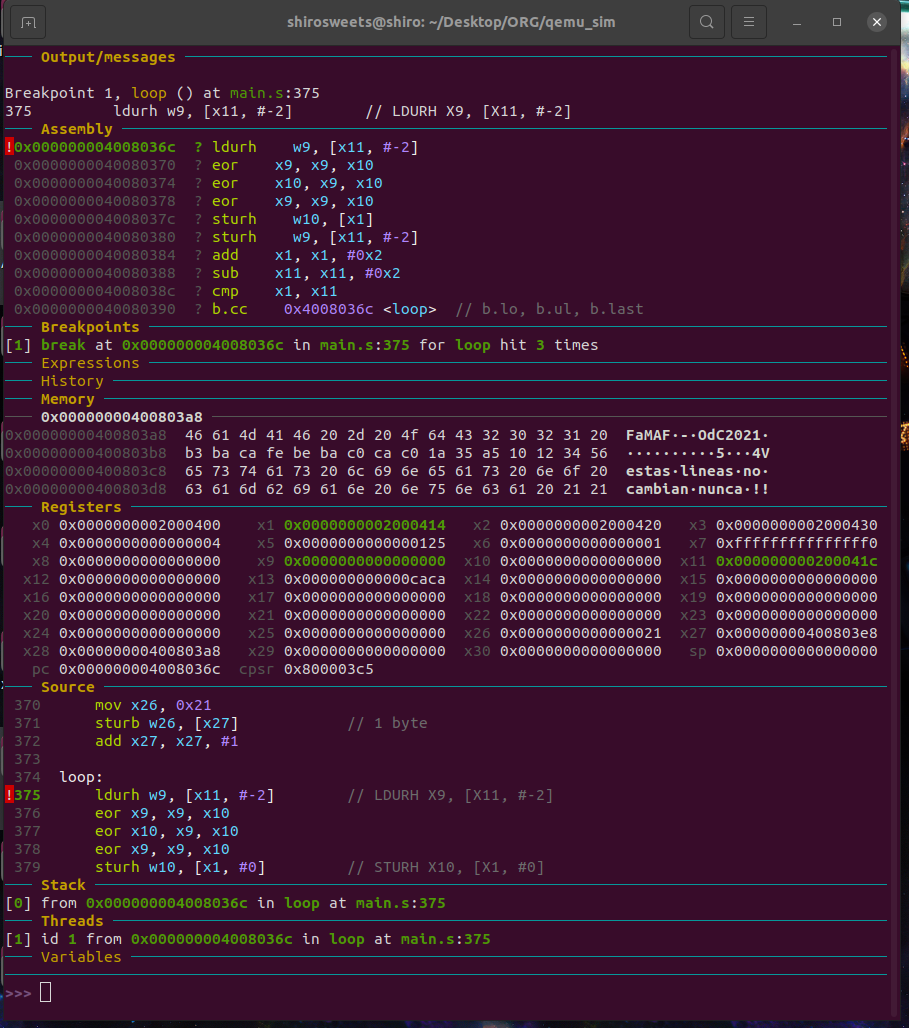
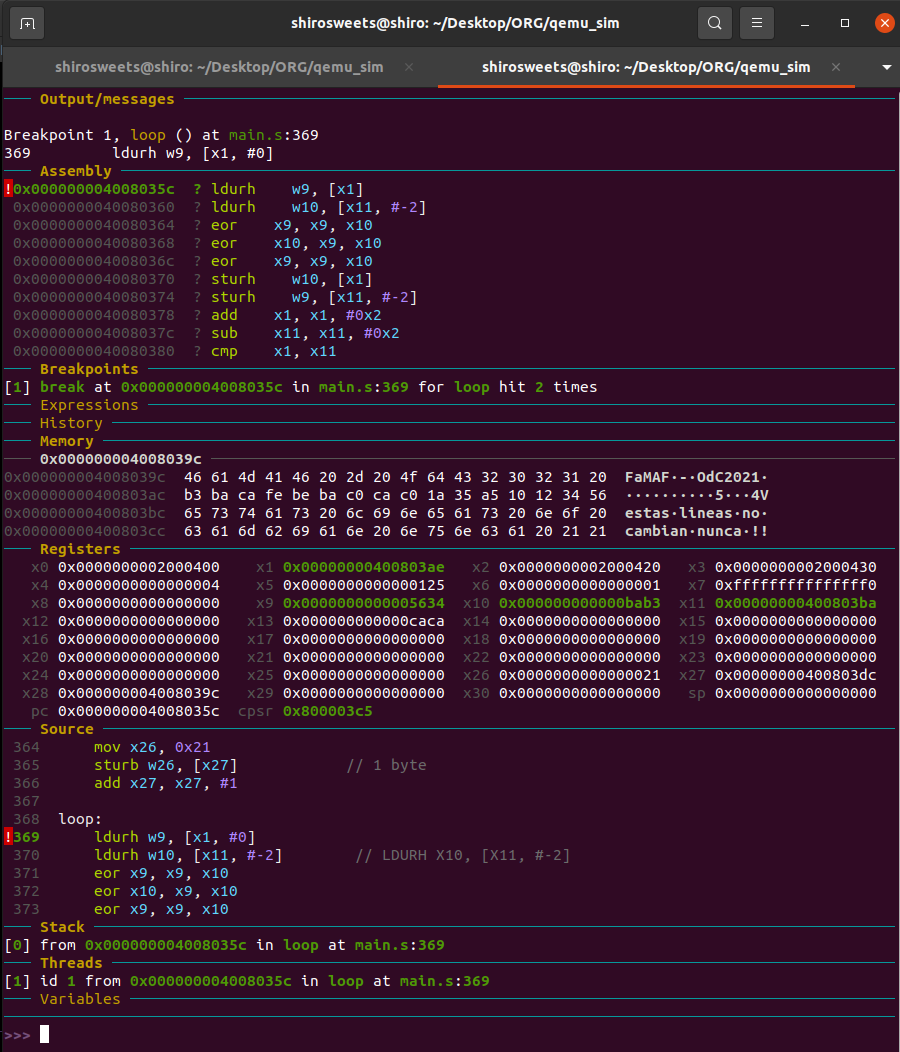
Arreglo segundo load e iterar sobre la memoria observada

Changed region(s): [[0.0, 0.0, 1.0, 1.0], [0.6844, 0.2802, 0.7156, 0.3113], [0.5911, 0.8093, 0.6222, 0.8405]]

diff --git a/README.md b/README.md
@@ -64,7 +64,7 @@ En una terminal:
 > `qemu-system-aarch64 -s -S -machine virt -cpu cortex-a53 -machine type=virt -nographic -smp 1 -m 64 -kernel kernel.img`
 
 En otra terminal, en el mismo path:
-> `gdb-multiarch -ex "set architecture aarch64" \-ex "target remote localhost:1234" \-ex "add-symbol-file main.o 0x0000000040080000" \-ex "dashboard registers -style list 'x0 x1 x2 x3 x4 x5 x6 x7 x8 x9 x10 x11 x12 x13 x14 x15 x16 x17 x18 x19 x20 x21 x22 x23 x24 x25 x26 x27 x28 x29 x30 sp pc cpsr'" \-ex  "stepi 6" \-ex "dashboard memory watch 0x00000000400803a8 64"`
+> `gdb-multiarch -ex "set architecture aarch64" \-ex "target remote localhost:1234" \-ex "add-symbol-file main.o 0x0000000040080000" \-ex "dashboard registers -style list 'x0 x1 x2 x3 x4 x5 x6 x7 x8 x9 x10 x11 x12 x13 x14 x15 x16 x17 x18 x19 x20 x21 x22 x23 x24 x25 x26 x27 x28 x29 x30 sp pc cpsr'" \-ex  "stepi 6" \-ex "dashboard memory watch 0x00000000400803b0 64"`
 
 > `b loop`
 
@@ -76,7 +76,7 @@ Si no se tiene o está desalineado:</p>
 
 En la instrucción **[**`adr x28, meMori`**]** se guardó la dirección de origen del la memoria a observar, lo que hay que hacer es correr todos los pasos anteriores y llegar al punto donde se llega al primer loop (usar el breakpoint del **loop** ya hecho sirve para esto), y copiar la dirección de memoria **guardada en el registro x28**. Luego se reemplaza el siguiente valor en el comando de *gdb*:
 
-`\-ex "dashboard memory watch` **`0x00000000400803a8`** `64"`
+`\-ex "dashboard memory watch` **`0x00000000400803b0`** `64"`
 
 por el valor copiado del registro.
 
